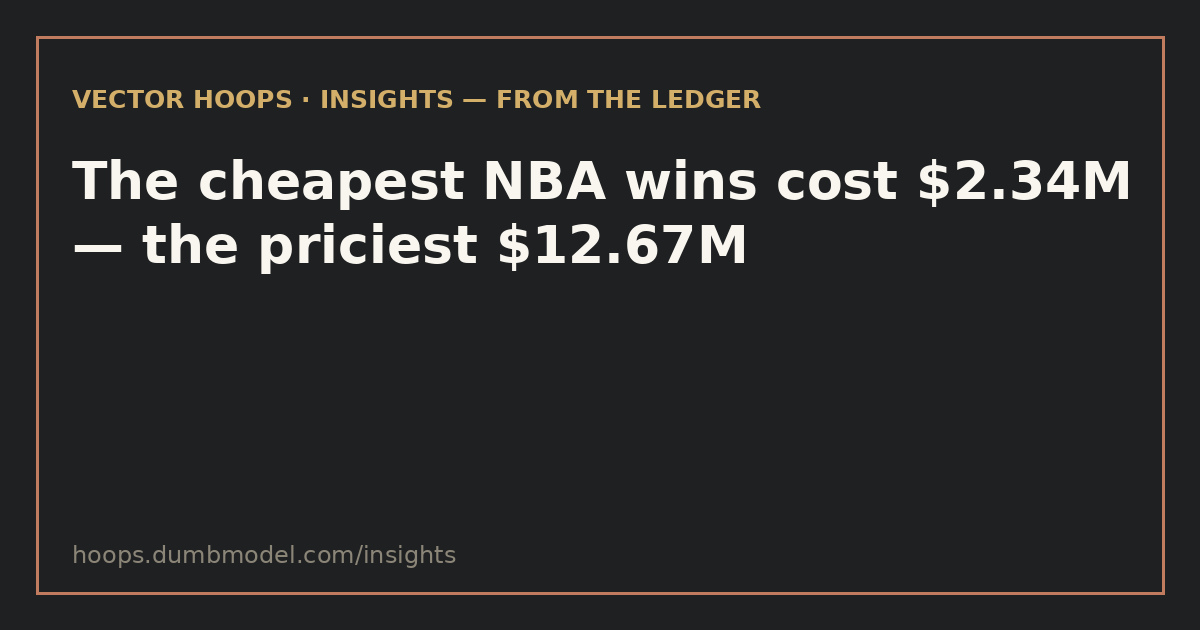
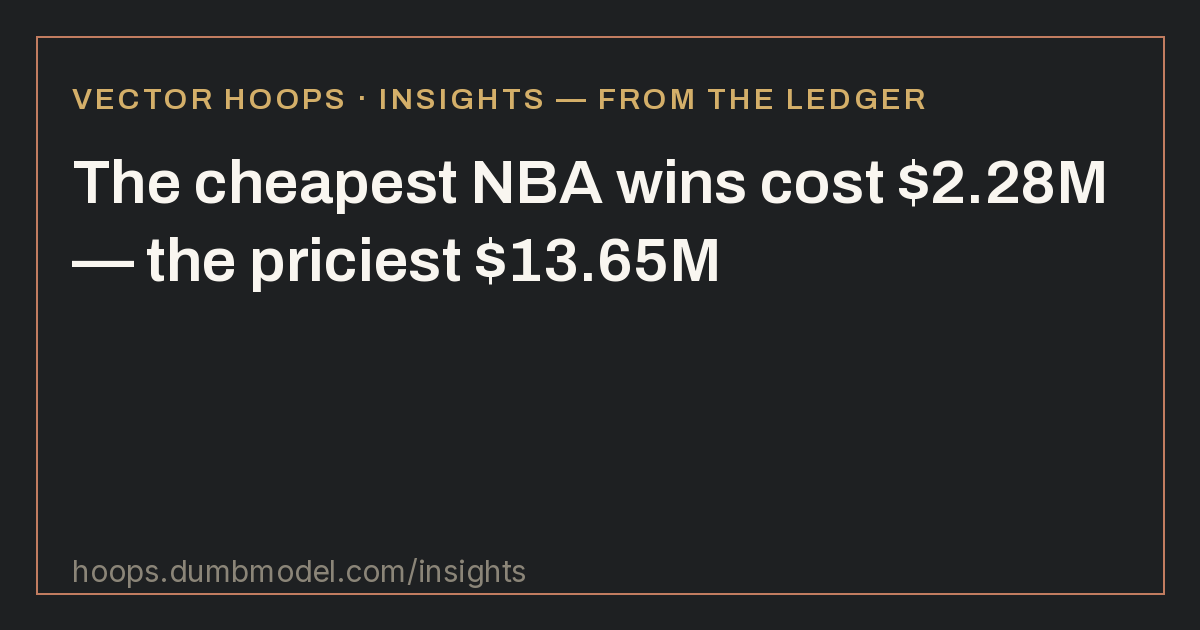
Insights: payroll-per-win remade as 4-season comparison (2022-23..2025-26)
- Card now compares cheapest vs priciest payroll-per-win across four
  seasons: OKC cheapest 3 of 4 years, Washington priciest 3 straight
  (3.65M/win in 2025-26); league-average cost per win .84M -> .83M.
- New 'seasons' viz renderer in insights.js (on-page SVG + 1080x1350
  share-PNG export branch), registered in the VIZ map.
- Single consistent source across all four seasons: Spotrac Total Cap
  Allocations. 2023-24 wins cross-checked vs landofbasketball (tracker
  record column was stale); 2024-25 figures shift slightly vs the old
  Basketball Insiders snapshot - noted in the card foot.
- Stub page + 1200x630 OG regenerated; public/ mirrors; SW v16 -> v17.

Changed region(s): [[0.0617, 0.2413, 0.9558, 0.4524], [0.0617, 0.1206, 0.7708, 0.181], [0.0617, 0.8746, 0.4317, 0.9349]]

diff --git a/assets/insights.js b/assets/insights.js
@@ -226,7 +226,43 @@
     return s + '</svg>';
   }
 
-  var VIZ = { bars: barsSVG, shares: sharesSVG, timeline: timelineSVG, line: lineSVG };
+  var VIZ = { bars: barsSVG, shares: sharesSVG, timeline: timelineSVG, line: lineSVG, seasons: seasonsSVG };
+
+  /* Multi-season cheapest-vs-priciest comparison: one group per season, two
+     bars each (gold = cheapest wins, terra = priciest). Rows carry
+     {s, cheap:{label,v,note}, pricey:{label,v,note}}. */
+  function seasonsSVG(ins) {
+    var rows = (ins.rows || []).filter(function (r) {
+      return r && typeof r.s === 'string' &&
+        r.cheap && typeof r.cheap.label === 'string' && typeof r.cheap.v === 'number' && isFinite(r.cheap.v) &&
+        r.pricey && typeof r.pricey.label === 'string' && typeof r.pricey.v === 'number' && isFinite(r.pricey.v);
+    });
+    if (!rows.length) return '';
+    var W = 620, headH = 34, groupH = 96, barH = 13, barGap = 28;
+    var H = headH + rows.length * groupH + 6;
+    var maxV = Math.max.apply(null, rows.map(function (r) { return r.pricey.v; })) * 1.06 || 1;
+    function X(v) { return (v / maxV) * W; }
+    var s = '<svg viewBox="0 0 ' + W + ' ' + H + '" class="vh-ins__viz" role="img" aria-label="' +
+      esc(ins.viz_label || 'season comparison chart') + '">';
+    /* Legend: gold = cheapest wins, terra = priciest wins. */
+    s += '<rect x="0" y="8" width="12" height="12" rx="3" fill="' + GOLD + '"/>' +
+      '<text x="18" y="18" class="vh-ins__svgtag">cheapest wins</text>' +
+      '<rect x="152" y="8" width="12" height="12" rx="3" fill="' + TERRA + '"/>' +
+      '<text x="170" y="18" class="vh-ins__svgtag">priciest wins</text>';
+    rows.forEach(function (r, i) {
+      var gy = headH + i * groupH;
+      s += '<text x="0" y="' + (gy + 15) + '" class="vh-ins__svglabel">' + esc(r.s) + '</text>';
+      [['cheap', GOLD, gy + 24], ['pricey', TERRA, gy + 24 + barGap]].forEach(function (t) {
+        var d = r[t[0]], by = t[2];
+        var bw = Math.max(3, X(d.v));
+        var lbl = fitText(d.label + ' \u00b7 $' + d.v + 'M/win' + (d.note ? ' (' + d.note + ')' : ''), W - 8, F_TAG);
+        s += '<text x="0" y="' + (by - 5) + '" class="vh-ins__svgtag">' + esc(lbl) + '</text>';
+        s += '<rect x="0" y="' + by + '" width="' + W + '" height="' + barH + '" rx="4" fill="' + VIZ_PAPER + '" opacity="0.06"/>';
+        s += '<rect x="0" y="' + by + '" width="' + bw.toFixed(1) + '" height="' + barH + '" rx="4" fill="' + t[1] + '"/>';
+      });
+    });
+    return s + '</svg>';
+  }
 
   /* ---------- card + spotlight rendering ---------- */
 
@@ -523,6 +559,28 @@
       c.fillText(rows4[0].s, X(0), y + h + 34);
       var ls = rows4[rows4.length - 1].s;
       c.fillText(ls, X(rows4.length - 1) - c.measureText(ls).width, y + h + 34);
+    } else if (ins.viz === 'seasons') {
+      /* Multi-season cheapest-vs-priciest: season label, then a gold
+         (cheapest) and terra (priciest) bar per season. */
+      var rows5 = (ins.rows || []).filter(function (r) { return r && r.cheap && r.pricey; });
+      var rh5 = rows5.length ? h / rows5.length : h;
+      var max5 = rows5.length ?
+        Math.max.apply(null, rows5.map(function (r) { return r.pricey.v; })) * 1.06 : 1;
+      rows5.forEach(function (r, i) {
+        var ry = y + i * rh5;
+        c.font = '700 26px ' + F; c.fillStyle = '#F9F6F0';
+        c.fillText(r.s, x, ry + 32);
+        [['cheap', GOLD], ['pricey', TERRA]].forEach(function (t, j) {
+          var d = r[t[0]];
+          var bwy = ry + 46 + j * 46;
+          c.font = '400 22px ' + F; c.fillStyle = '#F9F6F0';
+          fitLabel(d.label + ' \u00b7 $' + d.v + 'M/win', x, bwy + 19, 300);
+          c.fillStyle = t[1];
+          c.beginPath();
+          c.roundRect(x + 320, bwy, Math.max(4, (d.v / max5) * (w - 320)), 24, 6);
+          c.fill();
+        });
+      });
     }
     c.restore();
     return y + h;

diff --git a/public/assets/insights.js b/public/assets/insights.js
@@ -226,7 +226,43 @@
     return s + '</svg>';
   }
 
-  var VIZ = { bars: barsSVG, shares: sharesSVG, timeline: timelineSVG, line: lineSVG };
+  var VIZ = { bars: barsSVG, shares: sharesSVG, timeline: timelineSVG, line: lineSVG, seasons: seasonsSVG };
+
+  /* Multi-season cheapest-vs-priciest comparison: one group per season, two
+     bars each (gold = cheapest wins, terra = priciest). Rows carry
+     {s, cheap:{label,v,note}, pricey:{label,v,note}}. */
+  function seasonsSVG(ins) {
+    var rows = (ins.rows || []).filter(function (r) {
+      return r && typeof r.s === 'string' &&
+        r.cheap && typeof r.cheap.label === 'string' && typeof r.cheap.v === 'number' && isFinite(r.cheap.v) &&
+        r.pricey && typeof r.pricey.label === 'string' && typeof r.pricey.v === 'number' && isFinite(r.pricey.v);
+    });
+    if (!rows.length) return '';
+    var W = 620, headH = 34, groupH = 96, barH = 13, barGap = 28;
+    var H = headH + rows.length * groupH + 6;
+    var maxV = Math.max.apply(null, rows.map(function (r) { return r.pricey.v; })) * 1.06 || 1;
+    function X(v) { return (v / maxV) * W; }
+    var s = '<svg viewBox="0 0 ' + W + ' ' + H + '" class="vh-ins__viz" role="img" aria-label="' +
+      esc(ins.viz_label || 'season comparison chart') + '">';
+    /* Legend: gold = cheapest wins, terra = priciest wins. */
+    s += '<rect x="0" y="8" width="12" height="12" rx="3" fill="' + GOLD + '"/>' +
+      '<text x="18" y="18" class="vh-ins__svgtag">cheapest wins</text>' +
+      '<rect x="152" y="8" width="12" height="12" rx="3" fill="' + TERRA + '"/>' +
+      '<text x="170" y="18" class="vh-ins__svgtag">priciest wins</text>';
+    rows.forEach(function (r, i) {
+      var gy = headH + i * groupH;
+      s += '<text x="0" y="' + (gy + 15) + '" class="vh-ins__svglabel">' + esc(r.s) + '</text>';
+      [['cheap', GOLD, gy + 24], ['pricey', TERRA, gy + 24 + barGap]].forEach(function (t) {
+        var d = r[t[0]], by = t[2];
+        var bw = Math.max(3, X(d.v));
+        var lbl = fitText(d.label + ' \u00b7 $' + d.v + 'M/win' + (d.note ? ' (' + d.note + ')' : ''), W - 8, F_TAG);
+        s += '<text x="0" y="' + (by - 5) + '" class="vh-ins__svgtag">' + esc(lbl) + '</text>';
+        s += '<rect x="0" y="' + by + '" width="' + W + '" height="' + barH + '" rx="4" fill="' + VIZ_PAPER + '" opacity="0.06"/>';
+        s += '<rect x="0" y="' + by + '" width="' + bw.toFixed(1) + '" height="' + barH + '" rx="4" fill="' + t[1] + '"/>';
+      });
+    });
+    return s + '</svg>';
+  }
 
   /* ---------- card + spotlight rendering ---------- */
 
@@ -523,6 +559,28 @@
       c.fillText(rows4[0].s, X(0), y + h + 34);
       var ls = rows4[rows4.length - 1].s;
       c.fillText(ls, X(rows4.length - 1) - c.measureText(ls).width, y + h + 34);
+    } else if (ins.viz === 'seasons') {
+      /* Multi-season cheapest-vs-priciest: season label, then a gold
+         (cheapest) and terra (priciest) bar per season. */
+      var rows5 = (ins.rows || []).filter(function (r) { return r && r.cheap && r.pricey; });
+      var rh5 = rows5.length ? h / rows5.length : h;
+      var max5 = rows5.length ?
+        Math.max.apply(null, rows5.map(function (r) { return r.pricey.v; })) * 1.06 : 1;
+      rows5.forEach(function (r, i) {
+        var ry = y + i * rh5;
+        c.font = '700 26px ' + F; c.fillStyle = '#F9F6F0';
+        c.fillText(r.s, x, ry + 32);
+        [['cheap', GOLD], ['pricey', TERRA]].forEach(function (t, j) {
+          var d = r[t[0]];
+          var bwy = ry + 46 + j * 46;
+          c.font = '400 22px ' + F; c.fillStyle = '#F9F6F0';
+          fitLabel(d.label + ' \u00b7 $' + d.v + 'M/win', x, bwy + 19, 300);
+          c.fillStyle = t[1];
+          c.beginPath();
+          c.roundRect(x + 320, bwy, Math.max(4, (d.v / max5) * (w - 320)), 24, 6);
+          c.fill();
+        });
+      });
     }
     c.restore();
     return y + h;

diff --git a/insights/payroll-per-win.html b/insights/payroll-per-win.html
@@ -3,26 +3,26 @@
 <head>
 <meta charset="utf-8">
 <meta name="viewport" content="width=device-width, initial-scale=1">
-<title>The cheapest NBA wins cost $2.34M — the priciest $12.67M — Vector Hoops Insights</title>
-<meta name="description" content="Oklahoma City spent $159M and won 68 games. Washington spent $228M and won 18. Payroll per win, 2024-25.">
+<title>The cheapest NBA wins cost $2.28M — the priciest $13.65M — Vector Hoops Insights</title>
+<meta name="description" content="Oklahoma City bought the cheapest wins three of the last four seasons. Washington paid the most three straight — $13.65M per win in 2025-26.">
 <link rel="canonical" href="https://hoops.dumbmodel.com/insights/payroll-per-win">
 <meta property="og:type" content="article">
 <meta property="og:site_name" content="Vector Hoops">
-<meta property="og:title" content="The cheapest NBA wins cost $2.34M — the priciest $12.67M">
-<meta property="og:description" content="Oklahoma City spent $159M and won 68 games. Washington spent $228M and won 18. Payroll per win, 2024-25.">
+<meta property="og:title" content="The cheapest NBA wins cost $2.28M — the priciest $13.65M">
+<meta property="og:description" content="Oklahoma City bought the cheapest wins three of the last four seasons. Washington paid the most three straight — $13.65M per win in 2025-26.">
 <meta property="og:url" content="https://hoops.dumbmodel.com/insights/payroll-per-win">
 <meta property="og:image" content="https://hoops.dumbmodel.com/assets/og/insight-payroll-per-win.png">
 <meta property="og:image:width" content="1200">
 <meta property="og:image:height" content="630">
 <meta name="twitter:card" content="summary_large_image">
-<meta name="twitter:title" content="The cheapest NBA wins cost $2.34M — the priciest $12.67M">
-<meta name="twitter:description" content="Oklahoma City spent $159M and won 68 games. Washington spent $228M and won 18. Payroll per win, 2024-25.">
+<meta name="twitter:title" content="The cheapest NBA wins cost $2.28M — the priciest $13.65M">
+<meta name="twitter:description" content="Oklahoma City bought the cheapest wins three of the last four seasons. Washington paid the most three straight — $13.65M per win in 2025-26.">
 <meta name="twitter:image" content="https://hoops.dumbmodel.com/assets/og/insight-payroll-per-win.png">
 <meta http-equiv="refresh" content="0; url=/insights.html#payroll-per-win">
 </head>
 <body>
-<h1>The cheapest NBA wins cost $2.34M — the priciest $12.67M</h1>
-<p>Oklahoma City spent $159M and won 68 games. Washington spent $228M and won 18. Payroll per win, 2024-25.</p>
+<h1>The cheapest NBA wins cost $2.28M — the priciest $13.65M</h1>
+<p>Oklahoma City bought the cheapest wins three of the last four seasons. Washington paid the most three straight — $13.65M per win in 2025-26.</p>
 <p><a href="/insights.html#payroll-per-win">View this insight on Vector Hoops</a></p>
 <script>location.replace("/insights.html#payroll-per-win");</script>
 </body>

diff --git a/public/insights/payroll-per-win.html b/public/insights/payroll-per-win.html
@@ -3,26 +3,26 @@
 <head>
 <meta charset="utf-8">
 <meta name="viewport" content="width=device-width, initial-scale=1">
-<title>The cheapest NBA wins cost $2.34M — the priciest $12.67M — Vector Hoops Insights</title>
-<meta name="description" content="Oklahoma City spent $159M and won 68 games. Washington spent $228M and won 18. Payroll per win, 2024-25.">
+<title>The cheapest NBA wins cost $2.28M — the priciest $13.65M — Vector Hoops Insights</title>
+<meta name="description" content="Oklahoma City bought the cheapest wins three of the last four seasons. Washington paid the most three straight — $13.65M per win in 2025-26.">
 <link rel="canonical" href="https://hoops.dumbmodel.com/insights/payroll-per-win">
 <meta property="og:type" content="article">
 <meta property="og:site_name" content="Vector Hoops">
-<meta property="og:title" content="The cheapest NBA wins cost $2.34M — the priciest $12.67M">
-<meta property="og:description" content="Oklahoma City spent $159M and won 68 games. Washington spent $228M and won 18. Payroll per win, 2024-25.">
+<meta property="og:title" content="The cheapest NBA wins cost $2.28M — the priciest $13.65M">
+<meta property="og:description" content="Oklahoma City bought the cheapest wins three of the last four seasons. Washington paid the most three straight — $13.65M per win in 2025-26.">
 <meta property="og:url" content="https://hoops.dumbmodel.com/insights/payroll-per-win">
 <meta property="og:image" content="https://hoops.dumbmodel.com/assets/og/insight-payroll-per-win.png">
 <meta property="og:image:width" content="1200">
 <meta property="og:image:height" content="630">
 <meta name="twitter:card" content="summary_large_image">
-<meta name="twitter:title" content="The cheapest NBA wins cost $2.34M — the priciest $12.67M">
-<meta name="twitter:description" content="Oklahoma City spent $159M and won 68 games. Washington spent $228M and won 18. Payroll per win, 2024-25.">
+<meta name="twitter:title" content="The cheapest NBA wins cost $2.28M — the priciest $13.65M">
+<meta name="twitter:description" content="Oklahoma City bought the cheapest wins three of the last four seasons. Washington paid the most three straight — $13.65M per win in 2025-26.">
 <meta name="twitter:image" content="https://hoops.dumbmodel.com/assets/og/insight-payroll-per-win.png">
 <meta http-equiv="refresh" content="0; url=/insights.html#payroll-per-win">
 </head>
 <body>
-<h1>The cheapest NBA wins cost $2.34M — the priciest $12.67M</h1>
-<p>Oklahoma City spent $159M and won 68 games. Washington spent $228M and won 18. Payroll per win, 2024-25.</p>
+<h1>The cheapest NBA wins cost $2.28M — the priciest $13.65M</h1>
+<p>Oklahoma City bought the cheapest wins three of the last four seasons. Washington paid the most three straight — $13.65M per win in 2025-26.</p>
 <p><a href="/insights.html#payroll-per-win">View this insight on Vector Hoops</a></p>
 <script>location.replace("/insights.html#payroll-per-win");</script>
 </body>

diff --git a/public/sw.js b/public/sw.js
@@ -3,7 +3,7 @@
    - CORE shell (styles, nav, icons, offline page): stale-while-revalidate.
    - Large data files (DENY): network only, never cached.
    Bump CACHE_NAME whenever shipped assets change so clients drop the old shell. */
-const CACHE_NAME = 'vector-hoops-live-v16';
+const CACHE_NAME = 'vector-hoops-live-v17';
 const CORE = [
 '/',
 '/index.html',

diff --git a/sw.js b/sw.js
@@ -3,7 +3,7 @@
    - CORE shell (styles, nav, icons, offline page): stale-while-revalidate.
    - Large data files (DENY): network only, never cached.
    Bump CACHE_NAME whenever shipped assets change so clients drop the old shell. */
-const CACHE_NAME = 'vector-hoops-live-v16';
+const CACHE_NAME = 'vector-hoops-live-v17';
 const CORE = [
 '/',
 '/index.html',
